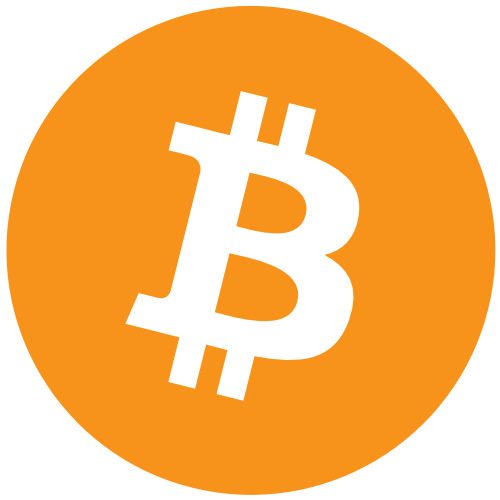
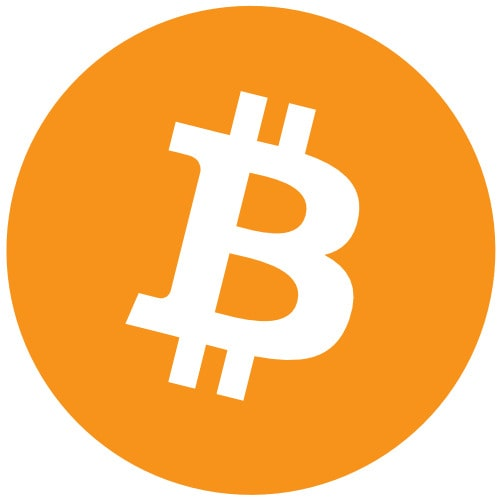
Compressed all the images

diff --git a/src/assets/styles/templatemo-softy-pinko.css b/src/assets/styles/templatemo-softy-pinko.css
@@ -650,7 +650,7 @@ welcome
   display: flex;
   align-items: center;
   justify-content: center;
-  background-image: url(../images/banner-bg.jpg);
+  background-image: url(../images/banner-bg-min.jpg);
   background-repeat: no-repeat;
   background-position: center center;
   background-size: cover; 
@@ -862,7 +862,7 @@ parallax & home seperator
   background-repeat: no-repeat;
   background-size: cover;
   background-position: center center;
-  background-image: url(../images/design5.jpg);
+  background-image: url(../images/design5-min.jpg);
   z-index: 2;
   top: -20%;
   left: -20%;
@@ -1045,7 +1045,7 @@ parallax & home seperator
   width: 140%;
   height: 140%;
   opacity: .90;
-  background-image: url(../images/workprocess.jpg);
+  background-image: url(../images/workprocess-min.jpg);
   background-repeat: no-repeat;
   background-size: cover;
   background-position: center center;
